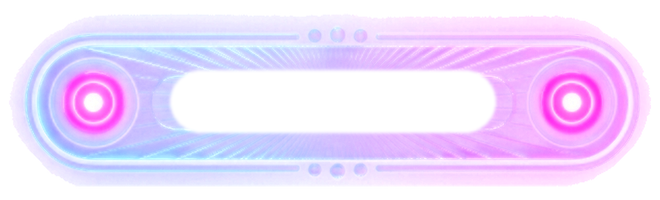
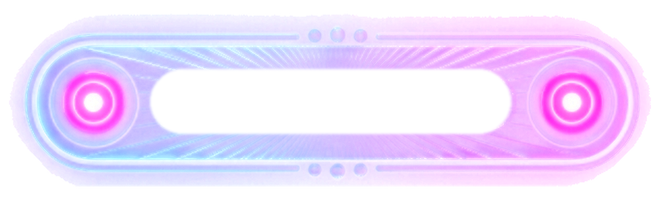
Tighten Elo badge cutouts per tier and shrink rating text

Changed region(s): [[0.697, 0.33, 0.7879, 0.69], [0.2121, 0.33, 0.303, 0.69]]

diff --git a/src/components/GridLeaderboard.tsx b/src/components/GridLeaderboard.tsx
@@ -1296,7 +1296,7 @@ export function GridLeaderboard({ headerContent }: { headerContent?: React.React
           min-width: 58px;
           text-align: center;
           color: #ffffff !important;
-          font-size: 18px;
+          font-size: 15px;
           font-weight: 700 !important;
           line-height: 1;
           letter-spacing: 0;
